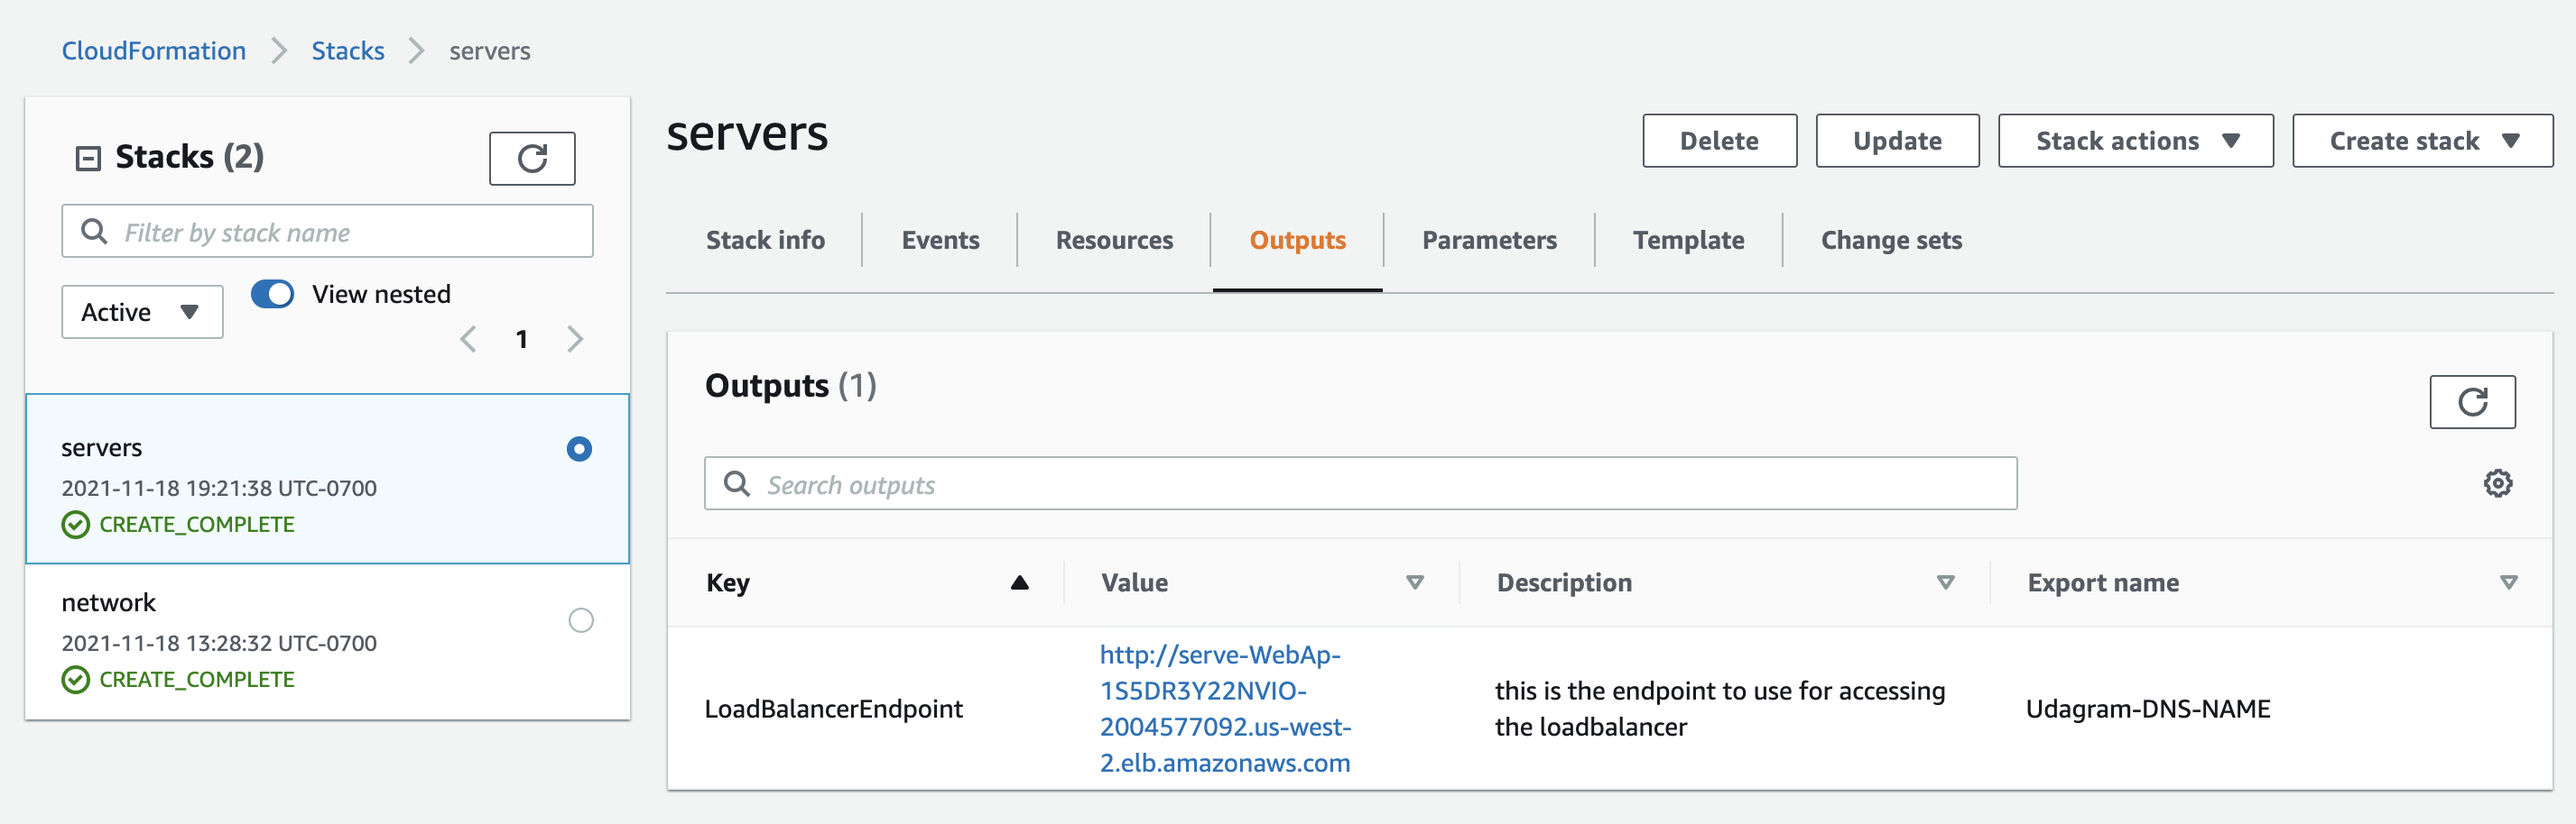
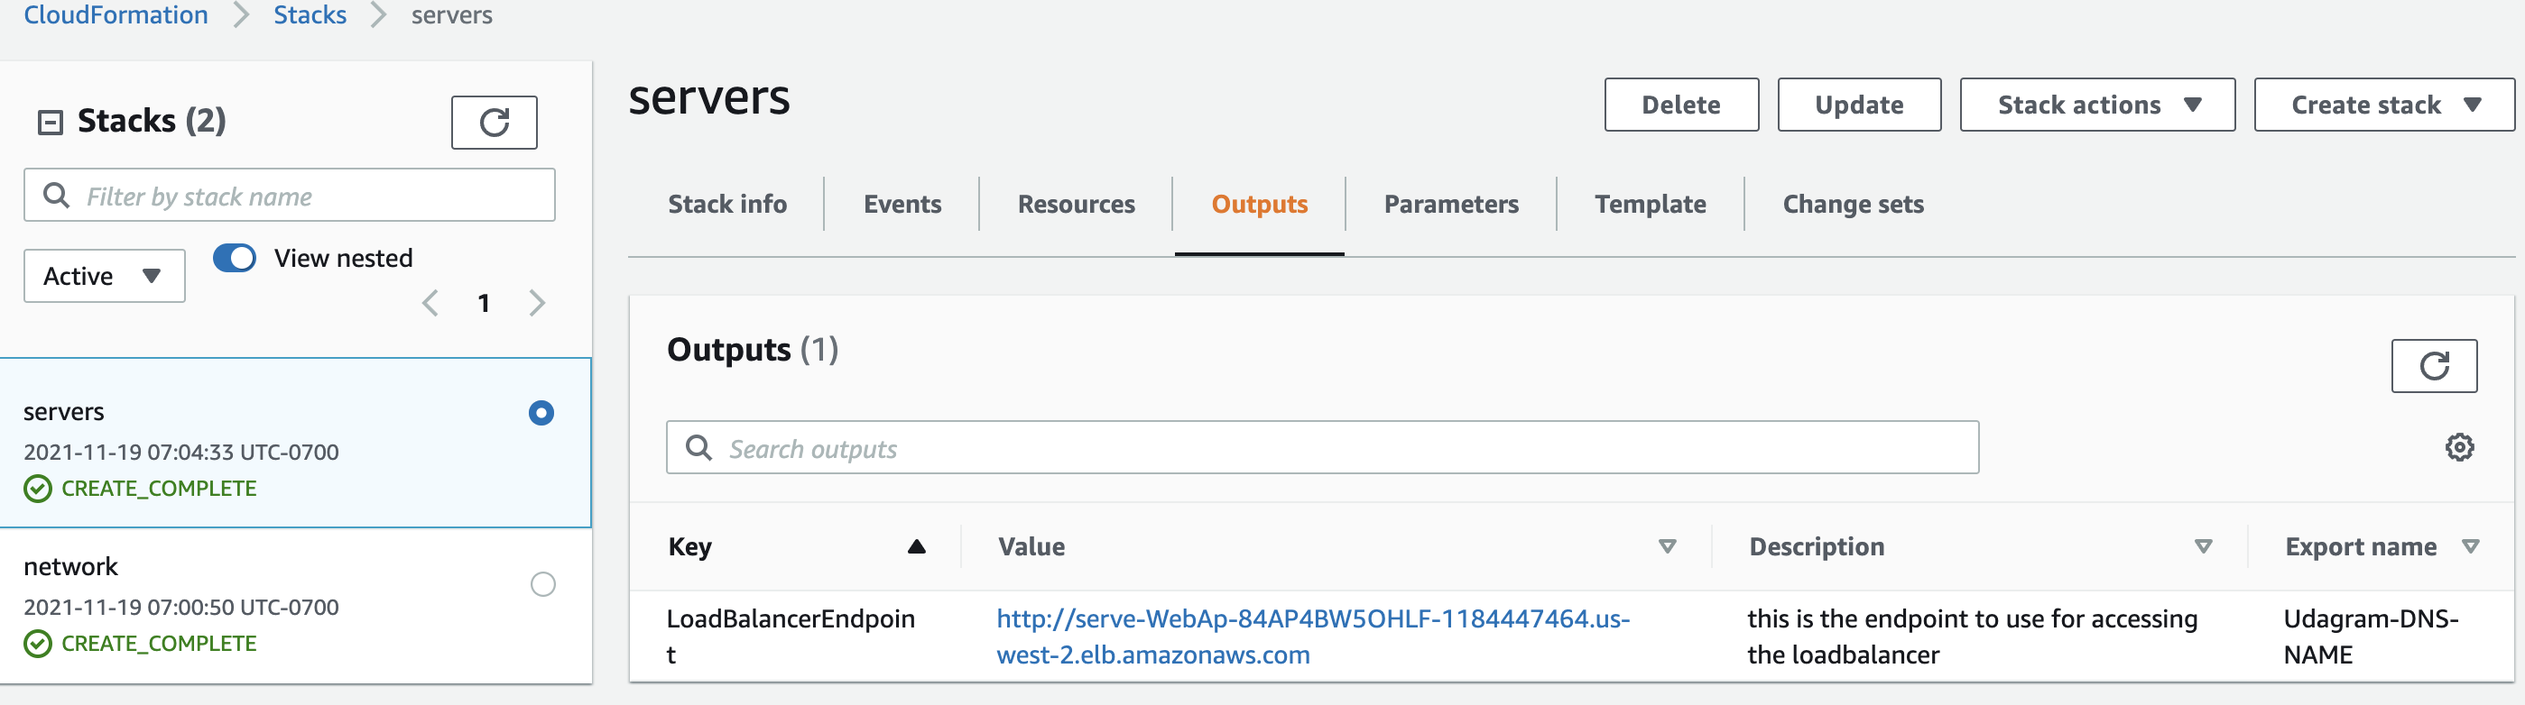
fix:Update readme

diff --git a/README.md b/README.md
@@ -103,7 +103,7 @@ The following screenshots indicate indicates the successful deployment of networ
 
 Below is the link to my web app showing that everything works
 
-http://serve-WebAp-1S5DR3Y22NVIO-2004577092.us-west-2.elb.amazonaws.com
+http://serve-WebAp-84AP4BW5OHLF-1184447464.us-west-2.elb.amazonaws.com
 
 The screenshots below indicate web application output and hyperlink:
 
